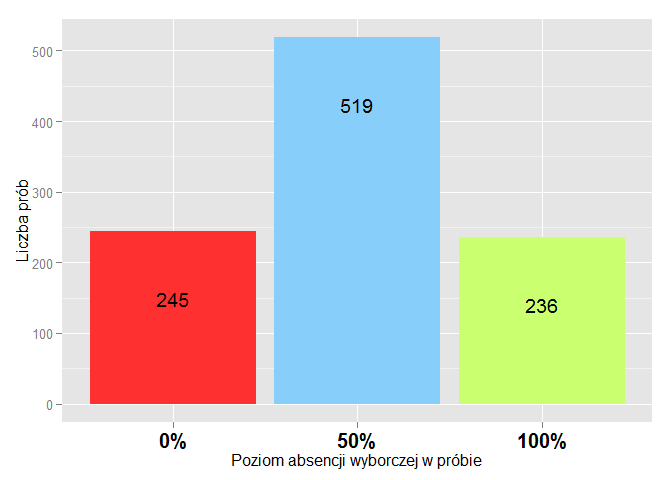
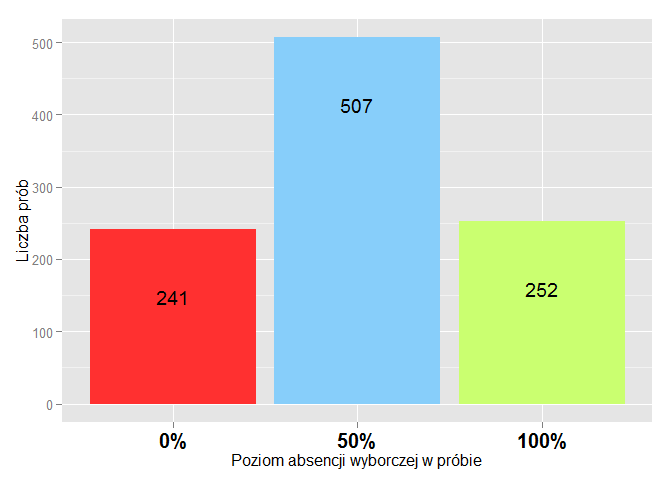
120215

diff --git a/PogRomcyDanych_NSS.html b/PogRomcyDanych_NSS.html
@@ -745,8 +745,8 @@ if (window.hljs && document.readyState && document.readyState === "complete") {
 </div>
 <div id="wykres-7.2.-symulacja---rozkad-oszacowania-absencji-z-1000-prob" class="section level3">
 <h3>Wykres 7.2. Symulacja - rozkład oszacowania absencji z 1000 prób</h3>
[1 lines of base64/hex data omitted]
-<p>Jak widać wyniki symulacji nie odbiegają od tego, co przewidywaliśmy. w 245 próbach absencja wyborcza wyniosła 0%, w 519 wyniosła 50%, a w 236 wyniosła 100%. Różnice są niewielkie. Widzimy więc teraz, że schemat losowania próby determinuje szansę uzyskania poprawnego oszacowania. W przypadku naszego badania wynoszą one 200/380, a więc około 53%.</p>
[1 lines of base64/hex data omitted]
+<p>Jak widać wyniki symulacji nie odbiegają od tego, co przewidywaliśmy. w 241 próbach absencja wyborcza wyniosła 0%, w 507 wyniosła 50%, a w 252 wyniosła 100%. Różnice są niewielkie. Widzimy więc teraz, że schemat losowania próby determinuje szansę uzyskania poprawnego oszacowania. W przypadku naszego badania wynoszą one 200/380, a więc około 53%.</p>
 <p>Widzimy więc, że dla ponad połowy wszystkich możliwch prób oszacowanie poziomu absencji jest prawidłowe. Wciąż jednak istnieje spore ryzyko, że się pomylimy. Czy to znaczy, że nasz schemat losowania jest “zły”? Jak w ogóle sprawdzić, czy jest “dobry”? Że nasze wnioski z badania mogą być trafne? Spójrzmy na nasz problem w następujący sposób: wiadomo, że poszczególne próby dobierane do badania sondażowego mogą dawać trochę inne wyniki. Najlepiej gdyby oszacowania te, jeżeli nie trafiały w punkt, to przynajmniej oscylowały wokół prawidłowego wyniki. Schemat doboru próby powinien być tak zaprojektowany, aby wyniki z generowanych przy jego użyciu prób “ciążyły” w kierunku wartości obserwowanej w populacji. Co to znaczy? Zastanówmy się jaki wynik przeciętnie dają próby. Zastosujemy przy tym zasadę często stosowaną w szkole. Gdy chcemy się czegoś dowiedzieć o wynikach ucznia w skali całego roku liczmy średnią arytmetyczną jego ocen. Podobnie zróbmy z naszymi próbami. Policzmy czego możemy się po nich przeciętnie spodziewać. W tym celu dodajemy do siebie wszystkie 380 możliwych oszacowań, a następnie dzielimy je przez liczbę wszystkich prób, czyli 380 - zupełnie jak średnią ocen w szkole. Możemy sobie uprościć to zadanie i zsumować wyniki w następujący sposób: 0%*90+100%*90+50%*200=19000%. Chwilowo rezultat jest absurdalny, ale to minie gdy podzielimy go przez liczbę prób: 19000% / (90+90+200) = 19000% / 380 =50% !!! I tu docieramy do sedna sprawy. Oto okazało się, że “przeciętnie” na próbę przypada 50% absencja!!! To jest dokładnie tyle ile wynosi ono w całej populacji!!! Oto podstawa całej metody reprezentacyjnej - przeciętny wynik z próby powinien być równy wynikowi dla całe popualcji. Jest to najważniejsza zasada badań sondażowych, ale także ogólnie wszyskich badań prowadzonych na próbach. Dzięki temu wiemy, że przeciętnie trafiamy w punkt - próba nie jest obciążona.</p>
 </div>
 <div id="tabela-7.3.-podsumowanie-obliczen" class="section level3">
@@ -914,8 +914,7 @@ if (window.hljs && document.readyState && document.readyState === "complete") {
 </tr>
 </tbody>
 </table>
-<p>Wiemy już w ilu próba wystąpi każdy obywatel: w ośmiu milionach trzysta siedemdziesięciu dwóch tysiącach stu sześćdziesięciu. Dużo! Zastanówmy się teraz, z jaką częstotliwością będą występowały poszczególne wyniki z próby, czyli ile jest takich prób, w których poparcie dla partii X wyniesie 100%, ile takich, w których poparcie wyniesie 83% (5/6) itd. Odpowiedź na to pytanie można uzyskać na dwa sposoby. Albo stosując proste, ale wymagające dużego skupienia obliczenia na papierze albo stosując mniej obciążające ale równie żmudne obliczenia na komputerze. Przyjrzyjmy się pierwszej metodzie. Zastanówmy się, ile może być takich prób, w których poparcie dla partii X wyniesie 83,3% (5/6). Przykładowo może to być próba (X, X, X, X, X, nX), gdzie “X” oznacza “głosuję na partię X”, a “nX” nie głosuję na “nX. Na ten moment nie będzie nas interesowało, którzy to obywatele (o jakich wartościach L.p.). w tej chwili rozróżniamy tylko X oraz nX. Losowanie dla wszystkich tych prób będzie przebiegało w następujący sposób. <strong>[KONIECZNE OBJAŚNIENIE - skąd nagle losowanie spośród 7 osób]</strong>. Pierwszego respondenta dobieramy spośród wszystkich 7 osób popierających X, potem drugiego respondenta dobieramy spośród pozostałych 5 osób popierających X, potem trzeciego respodenta dobieramy spośród pozostałych 4 osób dopierających P, itd aż dochodzimy do szóstego respondenta, którego dobieramy z innej grupy, niepopierających P (nP). Czyli takich prób jest 7*6*5*4*3*13=32760. Ale my chcemy wiedzieć ile jest dokładnie wszystkich prób, w których poparcie wynosi 83,3%, nie tylko takich, w których osoba niepopierająca P była wylosowana jako ostatnia. Zauważmy, że obywatel deklarujący nP może zostać wylosowany, jako szósty, piąty, czwarty, … lub jako pierwszy. Czyli każdy sześciu obywateli wśród których poparcie dla P wynosi 83,3% można ustawić na 6 sposobów. Ostatecznie więc liczba prób, w których 5 na 6 respondentów popiera P wynosi (7*6*5*4*3*13)*6=196560. A ile będzie prób, w których poparcie dla P wynosi 66,7% (4/6)? Podobnie zacznijmy od przykładowej kombinacji odpowiedzi (P, P, P, P , nP, nP). Dokładnie w tej kolejności poparcie możemy mieć w 7*6*5*4*13*12=131040 próbach. Teraz zastanówmy się, na ile sposobów możemy “ustawić” dwóch respondentów nP na sześciu miejscach (możemy rozważyć ten problem dla 4 respondentów P, ale wynik będzie dokłdnie taki sam)? Pierwszy respondent nP może zająć jedno z sześciu miejsc, a drugi nP pozostałych pięć. Ale w zasadzie nie interesuje nas to ile będzie Łącznie mogą oni stworzyć w ten sposób 6*5=30 różnych układów. Ostatecznie więc liczba prób w których poparcie wyniesie 66,7% wynosi (7*6*5*4*13*12)*(6*5)/2=1965600</p>
-<p>Oczywiście to samo możemy policzyć też inaczej, zlecając większośc pracy komputerowci. To rozwiązanie nie wymaga od nas rozumienia procesu losowania i dlatego jest mniej “eleganckie”, ale za to pozwoli szybko otrzymać interesujące nas wyniki. Przy pomocy programu R udalo nam sie otrzymać następujące rozwiązanie dla próby sześcioosobowej:</p>
+<p>Wiemy już w ilu próba wystąpi każdy obywatel: w ośmiu milionach trzystu siedemdziesięciu dwóch tysiącach stu sześćdziesięciu. Dużo! Zastanówmy się teraz, z jaką częstotliwością będą występowały poszczególne wyniki z próby, czyli ile jest takich prób, w których poparcie dla partii X wyniesie 100% (6/6), ile takich, w których poparcie wyniesie 83% (5/6) itd. Odpowiedź na to pytanie można uzyskać na dwa sposoby. Albo stosując proste, ale wymagające dużego skupienia obliczenia na papierze albo stosując mniej obciążające ale za to żmudne obliczenia na komputerze. Przyjrzyjmy się pierwszej metodzie. Zastanówmy się, ile może być takich prób, w których poparcie dla partii X wyniesie 83,3% (5/6). Przykładowo może to być próba (X, X, X, X, X, nX), gdzie “X” oznacza “głosuję na partię X”, a “nX” nie głosuję na partię “X. Na ten moment nie będzie nas interesowało, którzy to obywatele (o jakich wartościach L.p.). Będziemy rozróżniać tylko między”X“” oraz “nX”. Losowanie tego rodzaju próby będzie przebiegało w następujący sposób. <strong>[KONIECZNE OBJAŚNIENIE - skąd nagle losowanie spośród 7 osób]</strong>. Pierwszego respondenta dobieramy spośród wszystkich osób popierających partię X, w populacji jest ich 7. Potem drugiego respondenta dobieramy spośród pozostałych 6 osób popierających X, potem trzeciego respodenta dobieramy spośród pozostałych 5 osób dopierających X, itd aż dochodzimy do szóstego respondenta. Dobierzemy go z innej grupy dobieramy z innej grupy, niepopierających X (nX). W populacji jest takich osób 13. Ostatecznie więc liczba prób dla których preferencje układają się w kolejności (X, X, X, X, X, nX) jest równa 7*6*5*4*3*13=32760. No tak, ale my chcemy wiedzieć ,ile jest dokładnie wszystkich prób, w których poparcie wynosi 83,3%, nie tylko takich, w których osoba niepopierająca X była wylosowana jako ostatnia. Żeby się tego dowiedzieć musimy zauważyć, że obywatel deklarujący nX może zostać wylosowany, jako szósty, piąty, czwarty, … lub jako pierwszy. Czyli może on zostać ustawiony na sześć sposobów w próbie. Innymi słowy każda próba typu (X, X, X, X, X, nX) ma swoich pięć odpowiedników, w których występują ci sami obywatele, ale na innych miejscach. Ostatecznie więc liczba prób w których poparcie wyniesie 83,3% (5/6) wyniesie (7*6*5*4*3*13)*6=32760*6=196560.<br />A ile będzie prób, w których poparcie dla X wynosi 66,7% (4/6)? Podobnie jak poprzednio, zacznijmy od przykładowej kombinacji odpowiedzi (X, X, X, X , nX, nX). Dokładnie w tej kolejności preferencje możemy mieć w 7*6*5*4*13*12=131040 próbach. Teraz zastanówmy się, na ile sposobów możemy “ustawić” dwie preferencje nX na sześciu miejscach (alternatywnie można się zastanawiać na ile sposobów można ustawić 4 preferencje X, ale wynik będzie dokłdnie taki sam)? Pierwszą preferencja nX może zająć jedno z sześciu miejsc, a druga pozostałych pięć. To by oznaczało, że można je ustawić na 6*5=30 sposobów. Zobaczmy jednak jak wygląda to w praktyce. Jeżeli pierwsza preferencja nX zajmie pierwsze miejsce, a druga drugie to otrzymamy próbę (nX, nX, X, X, X, X). Jeżeli natomiast pierwsza preferencja nX zajmie drugie miejsce, a druga pierwsze to znowu otrzymamy próbę (nX, nX, X, X, X, X). Oba przypadki dają taki sam rezultat. Czyli dwie preferencje nX mogą zajmować miejsca w 6-osobowej próbie na (6*5)/2=15 sposobó. Ostatecznie więc liczba prób w których poparcie wyniesie 66,7% (4/6) wynosi (7*6*5*4)*(13*12)*(6*5)/2=1965600.<br />Podobne obliczenia można przeprowadzić dla pozostałych odsetów poparcia. Możemy też policzyć też zrobić inaczej i zlecić większośc pracy komputerowi. To rozwiązanie nie wymaga od nas rozumienia procesu losowania i dlatego jest mniej “eleganckie”, ale za to pozwoli szybko otrzymać interesujące nas wyniki. Przy pomocy programu R udalo nam sie otrzymać następujące rozwiązanie dla próby sześcioosobowej:</p>
 </div>
 <div id="tabela-8.1.-liczba-prob-6-osobowych-z-danym-poparciem" class="section level3">
 <h3>Tabela 8.1. Liczba prób 6-osobowych z danym poparciem</h3>
@@ -966,27 +965,27 @@ if (window.hljs && document.readyState && document.readyState === "complete") {
 <tr class="even">
 <td align="left">Razem</td>
 <td align="left">20*19*18*17*16*15=27907200</td>
-<td align="left"></td>
+<td align="left">27907200</td>
 </tr>
 </tbody>
 </table>
 </div>
 <div id="tabela-8.2.-poparcie-dla-partii-x-w-probach-szescioosobowych" class="section level3">
 <h3>Tabela 8.2. Poparcie dla partii X w próbach sześcioosobowych</h3>
[2 lines of base64/hex data omitted]
 <p>Widzimy jak wiele różnych możliwości możemy uzyskać z naszych prób. Przyjrzyjmy się wynikom.. Najwięcej prób zawiera poparcie dla partii X na poziomie 2/6. Dużo mniej ??? i 3/6. Wyniki 0 oraz 4/6 można nazwać rzadkimi, a ??? i 1 bardzo rzadkimi. Zauważmy również, że poparcia dla partii X nigdy nie jest równe 35% (7/20). Czy to oznacza, że nasz schemat jest wadliwy. Jak wiemy to, czy próba jest “trafna” określa się na podstawie przeciętnej wartości oszacowania w próbie. Gdy mierzyliśmy ten parametr dla sondażu dotyczącego absencji w wyborach, wiedzieliśmy, że przynajmniej część prób “trafia w punkt”. Tym razem tak nie jest. Żadna próba nie daje wyniku 35% poparcia dla partii X. Ale czy rzeczywiście schemat doboru respondentów jest wadliwy. Jeżeli sprawdzimy przeciętny wynik z próby to okaże się, że wynosi on dokładnie 35%, a więc dokładnie tyle ile wynosi on w populacji. To efekt zastosowanego schamatu losowania próby. Zgdonie z tym, co mówiliśmy wcześniej oznacza to, że jest on poprawny. Ale co z tego skoro nie portafi dokładnie “trafić” w wynik! Potrzebujemy dodatkowej miary trafności wyników. Musi ona określać skalę błąd popełnianego przy korzystaniu z konkretnych schematów losowania. Dzięki temu będziemy porównywać schmaty, a przede wszystkim kreślić, jak duże jest ryzyko, że się myslimy. Posłużymy się przy tym rozwiązaniem wymyślonym przez statystyków. Policzmy jak duzy jest rozstęp między wynikiem z próby, a prawdziwym wynikiem w populacji (35%). Wszystkie obliczenia znajdują się w poniższej tabeli</p>
 </div>
 <div id="tabela-8.2.-podsumowanie-obliczen" class="section level3">
 <h3>Tabela 8.2. Podsumowanie obliczeń</h3>
 <p>| Poparciedla partii X (A) | Liczba prób z danym poparciem dla partii X (B) | Różnica między wynikiem w próbie, a poparciem w populacji (A -35%) | Kwadrat różnicy (A-35%)^2 | Iloczyn liczby prób ikwadratu błędu ((A-35%)^2)*B | |————————–|————————————————|——————————————————————–|—————————|—————————————————| | 0 | 1235520 | -0,3500 | 0,1225 | 151351,2 | | 1/6 | 6486480 | -0,1833 | 0,0336 | 218017,8 | | 2/6 | 10810800 | -0,0167 | 0,0003 | 3003 | | 3/6 | 7207200 | 0,1500 | 0,0225 | 162162 | | 4/6 | 1965600 | 0,3167 | 0,1003 | 197106 | | 5/6 | 196560 | 0,4833 | 0,2336 | 45918,6 | | 1 | 5040 | 0,6500 | 0,4225 | 2129,4 | | Razem | 27907200 | — | — | |</p>
-<p>Zaczynamy od rozpisania wszystkich możliwych wyników z próby (kolumna A). Następnie dopisujemy, ile prób w naszym schemacie daje konkretny wynik (kolumna B). Obliczenia błędy zaczniemy od wyznaczenia różnicy między wynikiem w próbie i wynikiem w populacji (A - 35%). Następnie wyznaczymy kwadrat tego błędu ((A-35%)^2). W ten sposób otrzymaliśmy kwadrat błędu popełnianego w danym rodzaju próby. Nas interesuje nie błąd dla konkretnej próby (choć to też jest interesujące), ale błąd przeciętnie popełniany dla danego schematu losowania prób. Czyli chcemy poprostu policzyć średnią z naszego błędu - średnią arytmetyczną. Potrzebujemy do tego iloczynu kwadratów błędow w poszczególnych rodzajach prób i liczby prób każdego rodzaju (((A-35%)^2)*B ). Następnie sumujemy otrzymane wartości (779688) i dzielimy przez ogólna liczbe prób. W efekcie otrzymujemy 779688/27907200 = 0,02793859649 Tyle wynosi przeciętny błąd kwadratowy (statystycy nazywaja go “Wariancją”). Czy to dużo? Trudno powiedzieć. Dlatego policzymy pierwiastek tej liczby. W ten sposób otrzymamy pierwiastek średniego kwadratu błędu, czyli jak gdyby przeciętny błąd jaki popełniamy stosując nasz schemat losowania próby. Wynosi on 0,02793859649^(1/2) = 0,1671484265. W ten sposób otrzymujemy miarę, którą nazywamy odchyleniem standardowym. Trzeba podkreślić, że nie jest przeciętnym błąd popełniany przez próby tylko pierwiastkiem przeciętnego kwadratu błędu. Mimo to zazwyczaj traktuje się go jako przeciętny błąd popełniany przez próbę. Wiemy więc, że po naszej próbie możemy się spodziewać błędu na poziomie prawie 17% (0,167). To bardzo dużo biorąc pod uwagę, że rzeczywiste poparcie w próbie wynosi 35%. Nasz miernik pokazuje, że przeciętnie mylimy się o około połowę w naszych oszacowaniach!!!<br />Czy jest jakiś sposób, żeby temu zaradzić? Tak, i to dosyć prosty - możemy zwiększyć próbę. Każdy intuicyjnie wie, że większa próba to większa precyzja. Ale dlaczego tak jest?<br />Poniżej znajdują się trzy wykresy dla trzech schematów losowania i policzonych dla nich błędów standardowych oszacowania poparcia dla partii X. . Pierwszy wykres ilustruje wyniki dla próby składającej się z pięciu respondentów, drugi dla 10, a trzeci dla 15. Ze względu na różną liczebność prób inne są możliwe oszacowania poparcia dla partii X i różny jest też ich rozkład. Widzimy jednak, że wyniki zaczynają się “skupiać” wokół rzeczywistego wyniku (czerwona pionowa linia). To właśnie metoda poprawiająca dokładność oszacowania.<br />Dlaczego tak się dzieje? Ponieważ w małych próbach stosunkowo łatwiej może się zdarzyć, że wszyscy będą za lub przeciw partii X. Innymi słowy łatwiej o skrajny wynik. Zwiększając próbę zwięszkamy szanse na to, że wyniki się “ustabilizują” - Przy większej liczbie obserwacji jest mniejsza szansa, ze próba zostanie zdominowana przez jedną frakcję.<br />Przejdżmy do kwestii wnioskowania. Prawdziwie badania sondażowe polegają na wnioskowaniu na podstawie pojedynczej próby. Nie ma więc możliwości analizowania wyników z ze wszyskich prób</p>
+<p>Zaczynamy od rozpisania wszystkich możliwych wyników z próby (kolumna A). Następnie dopisujemy, ile prób w naszym schemacie daje konkretny wynik (kolumna B). Obliczenia błędy zaczniemy od wyznaczenia różnicy między wynikiem w próbie i wynikiem w populacji (A - 35%). Następnie wyznaczymy kwadrat tego błędu ((A-35%)^2). W ten sposób otrzymaliśmy kwadrat błędu popełnianego w danym rodzaju próby. Nas interesuje nie błąd dla konkretnej próby (choć to też jest interesujące), ale błąd przeciętnie popełniany dla danego schematu losowania prób. Czyli chcemy poprostu policzyć średnią z naszego błędu - średnią arytmetyczną. Potrzebujemy do tego iloczynu kwadratów błędow w poszczególnych rodzajach prób i liczby prób każdego rodzaju (((A-35%)^2)*B ). Następnie sumujemy otrzymane wartości (779688) i dzielimy przez ogólna liczbe prób. W efekcie otrzymujemy 779688/27907200 = 0,02793859649 Tyle wynosi przeciętny błąd kwadratowy (statystycy nazywaja go “Wariancją”). Czy to dużo? Trudno powiedzieć. Dlatego policzymy pierwiastek tej liczby. W ten sposób otrzymamy pierwiastek średniego kwadratu błędu, czyli jak gdyby przeciętny błąd jaki popełniamy stosując nasz schemat losowania próby. Wynosi on 0,02793859649^(1/2) = 0,1671484265. W ten sposób otrzymujemy miarę, którą nazywamy odchyleniem standardowym. Trzeba podkreślić, że nie jest przeciętnym błąd popełniany przez próby tylko pierwiastkiem przeciętnego kwadratu błędu. Mimo to zazwyczaj traktuje się go jako przeciętny błąd popełniany przez próbę. Wiemy więc, że po naszej pró możemy się spodziewać błędu na poziomie prawie 17% (0,167). To bardzo dużo biorąc pod uwagę, że rzeczywiste poparcie w próbie wynosi 35%. Nasz miernik pokazuje, że przeciętnie mylimy się o około połowę w naszych oszacowaniach!!!<br />Czy jest jakiś sposób, żeby temu zaradzić? Tak, i to dosyć prosty - możemy zwiększyć próbę. Każdy intuicyjnie wie, że większa próba to większa precyzja. Ale dlaczego tak jest?<br />Poniżej znajdują się trzy wykresy dla trzech schematów losowania i policzonych dla nich błędów standardowych oszacowania poparcia dla partii X. . Pierwszy wykres ilustruje wyniki dla próby składającej się z pięciu respondentów, drugi dla 10, a trzeci dla 15. Ze względu na różną liczebność prób inne są możliwe oszacowania poparcia dla partii X i różny jest też ich rozkład. Widzimy jednak, że wyniki zaczynają się “skupiać” wokół rzeczywistego wyniku (czerwona pionowa linia). To właśnie metoda poprawiająca dokładność oszacowania.<br />Dlaczego tak się dzieje? Ponieważ w małych próbach stosunkowo łatwiej może się zdarzyć, że wszyscy będą za lub przeciw partii X. Innymi słowy łatwiej o skrajny wynik. Zwiększając próbę zwięszkamy szanse na to, że wyniki się “ustabilizują” - Przy większej liczbie obserwacji jest mniejsza szansa, ze próba zostanie zdominowana przez jedną frakcję.<br />Przejdżmy do kwestii wnioskowania. Prawdziwie badania sondażowe polegają na wnioskowaniu na podstawie pojedynczej próby. Nie ma więc możliwości analizowania wyników z ze wszyskich prób</p>
 </div>
 </div>
 <div id="bedy-systematyczne" class="section level1">
 <h1>9. Błędy systematyczne</h1>
 <p>W części piątej mówiliśmy min. o tym, że nie każdy kontakt z dobrana do próby osobą kończy się sukcesem. Wszystkie techniki zbierania danych są obarczone pewną liczbą odmów respondentow.</p>
 <p>Do tej pory poznaliśmy sposoby wnioskowania z próby na podstawie wybranego schematu losowania. Musimy jednak pamiętać, że samo prawdziwe badanie sondażowe nie składa się wyłącznie z losowania próby, ale przede wszystkim z “terenowej” realizacji. W zasadzie jest to główna część badania. Od niej wszystko zależy. Wróćmy więc znowu do naszej populajcji i wyobraźmy sobie sytuację, gdy niespodziewane na wywiady, pomimo bardzo wielu próźb i grób, wszystkie osoby zamieszkałe w mieście w dobranej próbie konsekwentnie odmawiają naszym ankieterom wzięcia udziału w badaniu. To zupełnie skrajny przypadek, takie rzeczy raczej się nie zdażają, ale prawdą jest, że mieszkańcy miast sa trudniej uchwytni - z różnych powodów. Jakie dla nas konsekwencje będzie miało to zjawisko? Łatwo się domyślić. Zmienią sie wyniki otrzymywane z prób. Dalej korzystamy z próby składającej sie z 6 osób. Co za tym idzie zmienią się nasze wyniki. Z jednej strony pojawią się</p>
-<pre><code>## [1] 20</code></pre>
+<pre><code>## [1] 0</code></pre>
 <pre><code>## [1] 20</code></pre>
[1 lines of base64/hex data omitted]
 <p>Wnioskowanie Do tej pory analizowaliśmy rozkłady wszystkich możliwych wyników z próby. Potrafimy sobie wyobrazić co nas czeka. Badanie sondażowe polega jednak na dobraniu tylko jednej próby osób które potrafimy zidentyfikować, ale dla których nie znamy rozkładu preferencji politycznych czy innych badanych cech. W związku z tym w prawdziwym badaniu nie znamy błędu schematu z góry. Tak samo jak poziom poparcia dla partii X musimy go oszacować na podstawie próby. Jak to zrobimy<br />No i tutaj też mam problem, w jaki sposób podjąć ten temat, aby był on “strawny”. Jeżeli nic nie wymyślę, to po prostu kursant policzy średnią z próby (punktowy estymator odsetka w populacji), uwzględniając tylko osoby, które „udzieliły odpowiedzi”. Na końcu kursant porównuje wyniki przeprowadzonego przez siebie „sondażu”, z parametrem w populacji i myśli „Ojej, ale fajne te sondaże!”.</p>

diff --git a/PogRomcyDanych_NSS.md b/PogRomcyDanych_NSS.md
@@ -378,7 +378,7 @@ Na 1000 przypadków w około 237 (90/380\*1000) absencja wyniesie 0%, podobnie w
 ### Wykres 7.2. Symulacja - rozkład oszacowania absencji z 1000 prób
 ![plot of chunk unnamed-chunk-7](PogRomcyDanych_NSS_files/figure-html/unnamed-chunk-7.png) 
 
-Jak widać wyniki symulacji nie odbiegają od tego, co przewidywaliśmy. w 245 próbach absencja wyborcza wyniosła 0%, w 519 wyniosła 50%, a w 236 wyniosła 100%. Różnice są niewielkie.
+Jak widać wyniki symulacji nie odbiegają od tego, co przewidywaliśmy. w 241 próbach absencja wyborcza wyniosła 0%, w 507 wyniosła 50%, a w 252 wyniosła 100%. Różnice są niewielkie.
 Widzimy więc teraz, że schemat losowania próby determinuje szansę uzyskania poprawnego oszacowania. W przypadku naszego badania wynoszą one 200/380, a więc około 53%.
 
 Widzimy więc, że dla ponad połowy wszystkich możliwch prób oszacowanie poziomu absencji jest prawidłowe. Wciąż jednak istnieje  spore ryzyko, że się pomylimy. Czy to znaczy, że nasz schemat losowania jest “zły”? Jak w ogóle sprawdzić, czy jest “dobry”? Że nasze wnioski z badania mogą być trafne?  Spójrzmy na nasz problem w następujący sposób: wiadomo, że poszczególne próby dobierane do badania sondażowego mogą dawać trochę inne wyniki. Najlepiej gdyby oszacowania te, jeżeli nie trafiały w punkt, to przynajmniej oscylowały wokół prawidłowego wyniki. Schemat doboru próby powinien być tak zaprojektowany, aby wyniki z generowanych przy jego użyciu prób “ciążyły” w kierunku wartości obserwowanej w populacji. Co to znaczy? Zastanówmy się jaki wynik przeciętnie dają próby. Zastosujemy przy tym zasadę często stosowaną w szkole. Gdy chcemy się czegoś dowiedzieć o wynikach ucznia w skali całego roku liczmy średnią arytmetyczną jego ocen. Podobnie zróbmy z naszymi próbami. Policzmy czego możemy się po nich przeciętnie spodziewać. W tym celu dodajemy do siebie wszystkie 380 możliwych oszacowań, a następnie dzielimy je przez liczbę wszystkich prób, czyli 380 - zupełnie jak średnią ocen w szkole. Możemy sobie uprościć to zadanie i zsumować wyniki w następujący sposób: 0%\*90+100%\*90+50%\*200=19000%. Chwilowo rezultat jest absurdalny, ale to minie gdy podzielimy go przez liczbę prób: 19000% / (90\+90\+200) = 19000% / 380 =50% !!! I tu docieramy do sedna sprawy. Oto okazało się, że “przeciętnie” na próbę przypada 50% absencja!!! To jest dokładnie tyle ile wynosi ono w całej populacji!!! Oto podstawa całej metody reprezentacyjnej - przeciętny wynik z próby powinien być równy wynikowi dla całe popualcji. Jest to najważniejsza zasada badań sondażowych, ale także ogólnie wszyskich badań prowadzonych na próbach. Dzięki temu wiemy, że przeciętnie trafiamy w punkt - próba nie jest obciążona.
@@ -464,13 +464,11 @@ Różnych prób w których żaden obywatel się nie powtórzy otrzymamy 20\*19\*
 |       19|     8372160|
 |       20|     8372160|
 
-Wiemy już w ilu próba wystąpi każdy obywatel: w ośmiu milionach trzysta siedemdziesięciu dwóch tysiącach stu sześćdziesięciu. Dużo!
-Zastanówmy się teraz, z jaką częstotliwością będą występowały poszczególne wyniki z próby, czyli ile jest takich prób, w których poparcie dla partii X wyniesie  100%, ile takich, w których poparcie wyniesie 83% (5/6) itd. Odpowiedź na to pytanie można uzyskać na dwa sposoby. Albo stosując proste, ale wymagające dużego skupienia obliczenia na papierze albo stosując mniej obciążające ale równie żmudne obliczenia na komputerze. Przyjrzyjmy się pierwszej metodzie.
-Zastanówmy się, ile może być takich prób, w których poparcie dla partii X wyniesie 83,3% (5/6). Przykładowo może to być próba (X, X, X, X, X, nX), gdzie "X" oznacza "głosuję na partię X", a "nX" nie głosuję na "nX. Na ten moment nie będzie nas interesowało, którzy to obywatele (o jakich wartościach L.p.). w tej chwili rozróżniamy tylko X oraz nX. Losowanie dla wszystkich tych prób będzie przebiegało w następujący sposób. __[KONIECZNE OBJAŚNIENIE - skąd nagle losowanie spośród 7 osób]__. Pierwszego respondenta dobieramy spośród wszystkich 7 osób popierających X, potem drugiego respondenta dobieramy spośród pozostałych 5 osób popierających X, potem trzeciego respodenta dobieramy spośród pozostałych  4 osób dopierających P, itd aż dochodzimy do szóstego respondenta, którego dobieramy z innej grupy, niepopierających P (nP). Czyli takich prób jest 7\*6\*5\*4\*3\*13=32760. Ale my chcemy wiedzieć ile jest dokładnie wszystkich prób, w  których poparcie wynosi 83,3%, nie tylko takich,  w których osoba niepopierająca P była wylosowana jako ostatnia. Zauważmy, że obywatel deklarujący nP może zostać wylosowany, jako szósty, piąty, czwarty, … lub jako pierwszy. Czyli każdy sześciu obywateli wśród których poparcie dla P wynosi 83,3% można ustawić na 6 sposobów. Ostatecznie więc liczba prób, w których 5 na 6 respondentów popiera P wynosi (7\*6\*5\*4\*3\*13)\*6=196560. 
-A ile będzie prób, w których poparcie dla P wynosi 66,7% (4/6)? Podobnie zacznijmy od przykładowej kombinacji odpowiedzi (P, P, P, P , nP, nP). Dokładnie w tej kolejności poparcie możemy mieć w 7\*6\*5\*4\*13\*12=131040 próbach. Teraz zastanówmy się, na ile sposobów możemy “ustawić” dwóch respondentów nP na sześciu miejscach (możemy rozważyć ten problem dla 4 respondentów P, ale wynik będzie dokłdnie taki sam)? Pierwszy respondent nP może zająć jedno z sześciu miejsc, a drugi nP pozostałych pięć. Ale w zasadzie nie interesuje nas to ile będzie  Łącznie mogą oni stworzyć w ten sposób 6\*5=30 różnych układów. Ostatecznie więc liczba prób w których poparcie wyniesie 66,7%  wynosi (7\*6\*5\*4\*13\*12)\*(6\*5)/2=1965600
-    
-
-Oczywiście to samo możemy policzyć też inaczej, zlecając większośc pracy komputerowci. To rozwiązanie nie wymaga od nas rozumienia procesu losowania i dlatego jest mniej “eleganckie”, ale za to pozwoli szybko otrzymać interesujące nas wyniki. Przy pomocy programu R udalo nam sie otrzymać następujące rozwiązanie dla próby sześcioosobowej:
+Wiemy już w ilu próba wystąpi każdy obywatel: w ośmiu milionach trzystu siedemdziesięciu dwóch tysiącach stu sześćdziesięciu. Dużo!
+Zastanówmy się teraz, z jaką częstotliwością będą występowały poszczególne wyniki z próby, czyli ile jest takich prób, w których poparcie dla partii X wyniesie  100% (6/6), ile takich, w których poparcie wyniesie 83% (5/6) itd. Odpowiedź na to pytanie można uzyskać na dwa sposoby. Albo stosując proste, ale wymagające dużego skupienia obliczenia na papierze albo stosując mniej obciążające ale za to żmudne obliczenia na komputerze. Przyjrzyjmy się pierwszej metodzie.
+Zastanówmy się, ile może być takich prób, w których poparcie dla partii X wyniesie 83,3% (5/6). Przykładowo może to być próba (X, X, X, X, X, nX), gdzie "X" oznacza "głosuję na partię X", a "nX" nie głosuję na partię "X. Na ten moment nie będzie nas interesowało, którzy to obywatele (o jakich wartościach L.p.). Będziemy rozróżniać tylko między "X"" oraz "nX". Losowanie tego rodzaju próby będzie przebiegało w następujący sposób. __[KONIECZNE OBJAŚNIENIE - skąd nagle losowanie spośród 7 osób]__. Pierwszego respondenta dobieramy spośród wszystkich osób popierających partię X, w populacji jest ich 7. Potem drugiego respondenta dobieramy spośród pozostałych 6 osób popierających X, potem trzeciego respodenta dobieramy spośród pozostałych 5 osób dopierających X, itd aż dochodzimy do szóstego respondenta. Dobierzemy go z innej grupy dobieramy z innej grupy, niepopierających X (nX). W populacji jest takich osób 13. Ostatecznie więc liczba prób dla których preferencje układają się w kolejności (X, X, X, X, X, nX) jest równa 7\*6\*5\*4\*3\*13=32760. No tak, ale my chcemy wiedzieć ,ile jest dokładnie wszystkich prób, w  których poparcie wynosi 83,3%, nie tylko takich,  w których osoba niepopierająca X była wylosowana jako ostatnia. Żeby się tego dowiedzieć musimy zauważyć, że obywatel deklarujący nX może zostać wylosowany, jako szósty, piąty, czwarty, … lub jako pierwszy. Czyli może on zostać ustawiony na sześć sposobów w próbie.  Innymi słowy każda próba typu (X, X, X, X, X, nX) ma swoich pięć odpowiedników, w których występują ci sami obywatele, ale na innych miejscach. Ostatecznie więc liczba prób w których poparcie wyniesie 83,3% (5/6) wyniesie (7\*6\*5\*4\*3\*13)\*6=32760\*6=196560.    
+A ile będzie prób, w których poparcie dla X wynosi 66,7% (4/6)? Podobnie jak poprzednio, zacznijmy od przykładowej kombinacji odpowiedzi (X, X, X, X , nX, nX). Dokładnie w tej kolejności preferencje możemy mieć w 7\*6\*5\*4\*13\*12=131040 próbach. Teraz zastanówmy się, na ile sposobów możemy “ustawić” dwie preferencje nX na sześciu miejscach (alternatywnie można się zastanawiać na ile sposobów można ustawić 4 preferencje X, ale wynik będzie dokłdnie taki sam)? Pierwszą preferencja nX może zająć jedno z sześciu miejsc, a druga pozostałych pięć. To by oznaczało, że można je ustawić na 6\*5=30 sposobów. Zobaczmy jednak jak wygląda to w praktyce. Jeżeli pierwsza preferencja nX zajmie pierwsze miejsce, a druga drugie to otrzymamy próbę (nX, nX, X, X, X, X). Jeżeli natomiast pierwsza preferencja nX zajmie drugie miejsce, a druga pierwsze to znowu otrzymamy próbę (nX, nX, X, X, X, X). Oba przypadki dają taki sam rezultat. Czyli dwie preferencje nX mogą zajmować miejsca w 6-osobowej próbie na (6\*5)/2=15 sposobó. Ostatecznie więc liczba prób w których poparcie wyniesie 66,7% (4/6) wynosi (7\*6\*5\*4)\*(13\*12)\*(6\*5)/2=1965600.     
+Podobne obliczenia można przeprowadzić dla pozostałych odsetów poparcia. Możemy też policzyć też zrobić inaczej i zlecić większośc pracy komputerowi. To rozwiązanie nie wymaga od nas rozumienia procesu losowania i dlatego jest mniej “eleganckie”, ale za to pozwoli szybko otrzymać interesujące nas wyniki. Przy pomocy programu R udalo nam sie otrzymać następujące rozwiązanie dla próby sześcioosobowej:
 
 ### Tabela 8.1. Liczba prób 6-osobowych z danym poparciem
 
@@ -483,7 +481,7 @@ Oczywiście to samo możemy policzyć też inaczej, zlecając większośc pracy 
 | 4/6      | (7\*6\*5\*4)\*(13\*12)\*(6\*5)/2=1965600     | 1965600                      |
 | 5/6      | (7\*6\*5\*4\*3)\*(13)\*(6)=196560            | 196560                       |
 | 1        | (7\*6\*5\*4\*3\*2)=5040                      | 5040                         |
-| Razem    | 20\*19\*18\*17\*16\*15=27907200              |                              |
+| Razem    | 20\*19\*18\*17\*16\*15=27907200              | 27907200                     |
 
 ### Tabela 8.2. Poparcie dla partii X w próbach sześcioosobowych
 ![plot of chunk unnamed-chunk-11](PogRomcyDanych_NSS_files/figure-html/unnamed-chunk-11.png) 
@@ -504,7 +502,7 @@ Widzimy jak wiele różnych możliwości możemy uzyskać z naszych prób. Przyj
 | 1                        | 5040                                           | 0,6500                                                             | 0,4225                    | 2129,4                                            |
 | Razem                    | 27907200                                       | ---                                                                | ---                       |                                                   |
 
-Zaczynamy od rozpisania wszystkich możliwych wyników z próby (kolumna A). Następnie dopisujemy, ile prób w naszym schemacie daje konkretny wynik (kolumna B). Obliczenia błędy zaczniemy od wyznaczenia różnicy między wynikiem w próbie i wynikiem w populacji (A - 35%). Następnie wyznaczymy kwadrat tego błędu ((A-35%)^2). W ten sposób otrzymaliśmy kwadrat błędu popełnianego w danym rodzaju próby. Nas interesuje nie błąd dla konkretnej próby (choć to też jest interesujące), ale błąd przeciętnie popełniany dla danego schematu losowania prób. Czyli chcemy poprostu policzyć średnią z naszego błędu - średnią arytmetyczną. Potrzebujemy do tego iloczynu kwadratów błędow w poszczególnych rodzajach prób i liczby prób każdego rodzaju (((A-35%)^2)*B ). Następnie sumujemy otrzymane wartości (779688) i dzielimy przez ogólna liczbe prób. W efekcie otrzymujemy  779688/27907200 = 0,02793859649 Tyle wynosi przeciętny błąd kwadratowy (statystycy nazywaja go “Wariancją”). Czy to dużo? Trudno powiedzieć. Dlatego policzymy pierwiastek tej liczby. W ten sposób otrzymamy pierwiastek średniego kwadratu błędu, czyli jak gdyby przeciętny błąd jaki popełniamy stosując nasz schemat losowania próby. Wynosi on 0,02793859649^(1/2) = 0,1671484265. W ten sposób otrzymujemy miarę, którą nazywamy odchyleniem standardowym. Trzeba podkreślić, że nie jest przeciętnym błąd popełniany przez próby tylko pierwiastkiem przeciętnego kwadratu błędu. Mimo to zazwyczaj traktuje się go jako przeciętny  błąd popełniany przez próbę. Wiemy więc, że po naszej próbie możemy się spodziewać błędu na poziomie prawie 17% (0,167).  To bardzo dużo biorąc pod uwagę, że rzeczywiste poparcie w próbie wynosi 35%. Nasz miernik pokazuje, że przeciętnie mylimy się o około połowę w naszych oszacowaniach!!!      
+Zaczynamy od rozpisania wszystkich możliwych wyników z próby (kolumna A). Następnie dopisujemy, ile prób w naszym schemacie daje konkretny wynik (kolumna B). Obliczenia błędy zaczniemy od wyznaczenia różnicy między wynikiem w próbie i wynikiem w populacji (A - 35%). Następnie wyznaczymy kwadrat tego błędu ((A-35%)^2). W ten sposób otrzymaliśmy kwadrat błędu popełnianego w danym rodzaju próby. Nas interesuje nie błąd dla konkretnej próby (choć to też jest interesujące), ale błąd przeciętnie popełniany dla danego schematu losowania prób. Czyli chcemy poprostu policzyć średnią z naszego błędu - średnią arytmetyczną. Potrzebujemy do tego iloczynu kwadratów błędow w poszczególnych rodzajach prób i liczby prób każdego rodzaju (((A-35%)^2)*B ). Następnie sumujemy otrzymane wartości (779688) i dzielimy przez ogólna liczbe prób. W efekcie otrzymujemy  779688/27907200 = 0,02793859649 Tyle wynosi przeciętny błąd kwadratowy (statystycy nazywaja go “Wariancją”). Czy to dużo? Trudno powiedzieć. Dlatego policzymy pierwiastek tej liczby. W ten sposób otrzymamy pierwiastek średniego kwadratu błędu, czyli jak gdyby przeciętny błąd jaki popełniamy stosując nasz schemat losowania próby. Wynosi on 0,02793859649^(1/2) = 0,1671484265. W ten sposób otrzymujemy miarę, którą nazywamy odchyleniem standardowym. Trzeba podkreślić, że nie jest przeciętnym błąd popełniany przez próby tylko pierwiastkiem przeciętnego kwadratu błędu. Mimo to zazwyczaj traktuje się go jako przeciętny  błąd popełniany przez próbę. Wiemy więc, że po naszej pró możemy się spodziewać błędu na poziomie prawie 17% (0,167).  To bardzo dużo biorąc pod uwagę, że rzeczywiste poparcie w próbie wynosi 35%. Nasz miernik pokazuje, że przeciętnie mylimy się o około połowę w naszych oszacowaniach!!!      
 Czy jest jakiś sposób, żeby temu zaradzić? Tak, i to dosyć prosty - możemy zwiększyć próbę. Każdy intuicyjnie wie, że większa próba to większa precyzja. Ale dlaczego tak jest?     
 Poniżej znajdują się trzy wykresy dla trzech schematów losowania i policzonych dla nich błędów standardowych oszacowania poparcia dla partii X. . 
 Pierwszy wykres ilustruje wyniki dla próby składającej się z pięciu respondentów, drugi dla 10, a trzeci dla 15. Ze względu na różną liczebność prób inne są możliwe oszacowania poparcia dla partii X i różny jest też ich rozkład. Widzimy jednak, że wyniki zaczynają się “skupiać” wokół rzeczywistego wyniku (czerwona pionowa linia). To właśnie metoda poprawiająca dokładność oszacowania.     
@@ -523,7 +521,7 @@ Jakie dla nas konsekwencje będzie miało to zjawisko?
 
 
 ```
-## [1] 20
+## [1] 0
 ```
 
 ```
